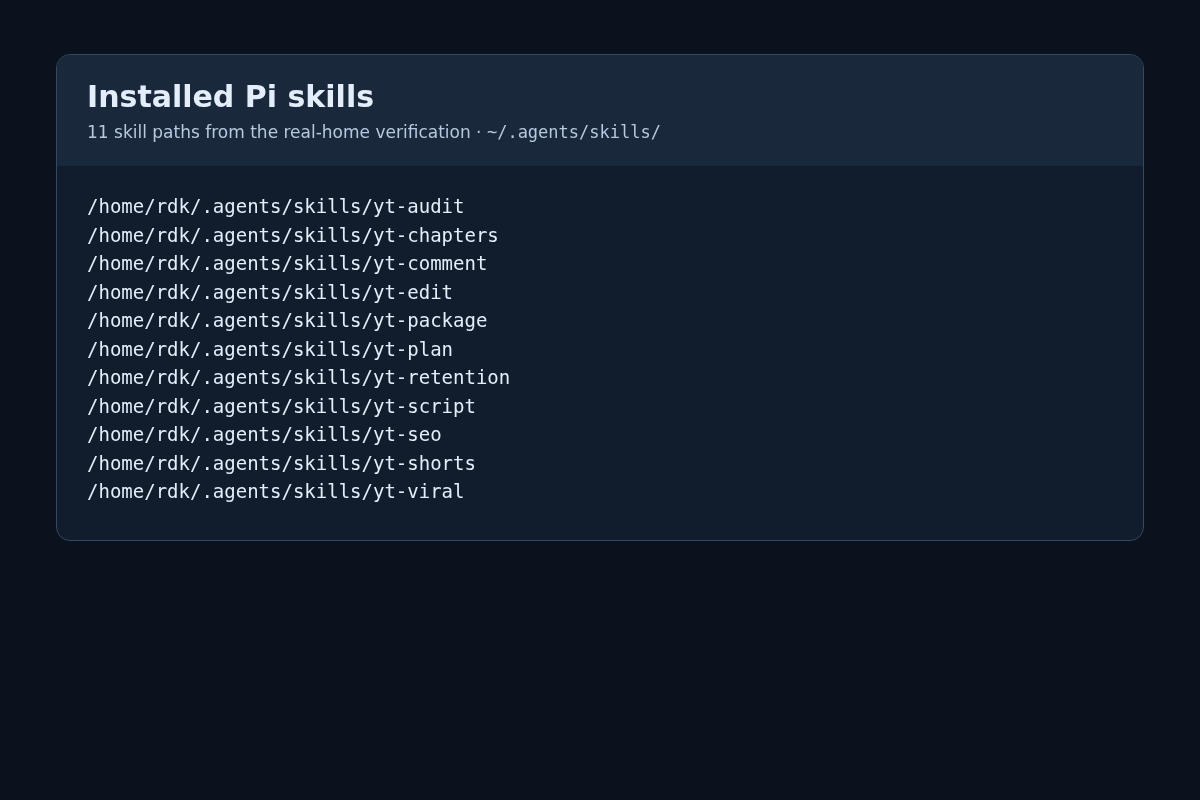
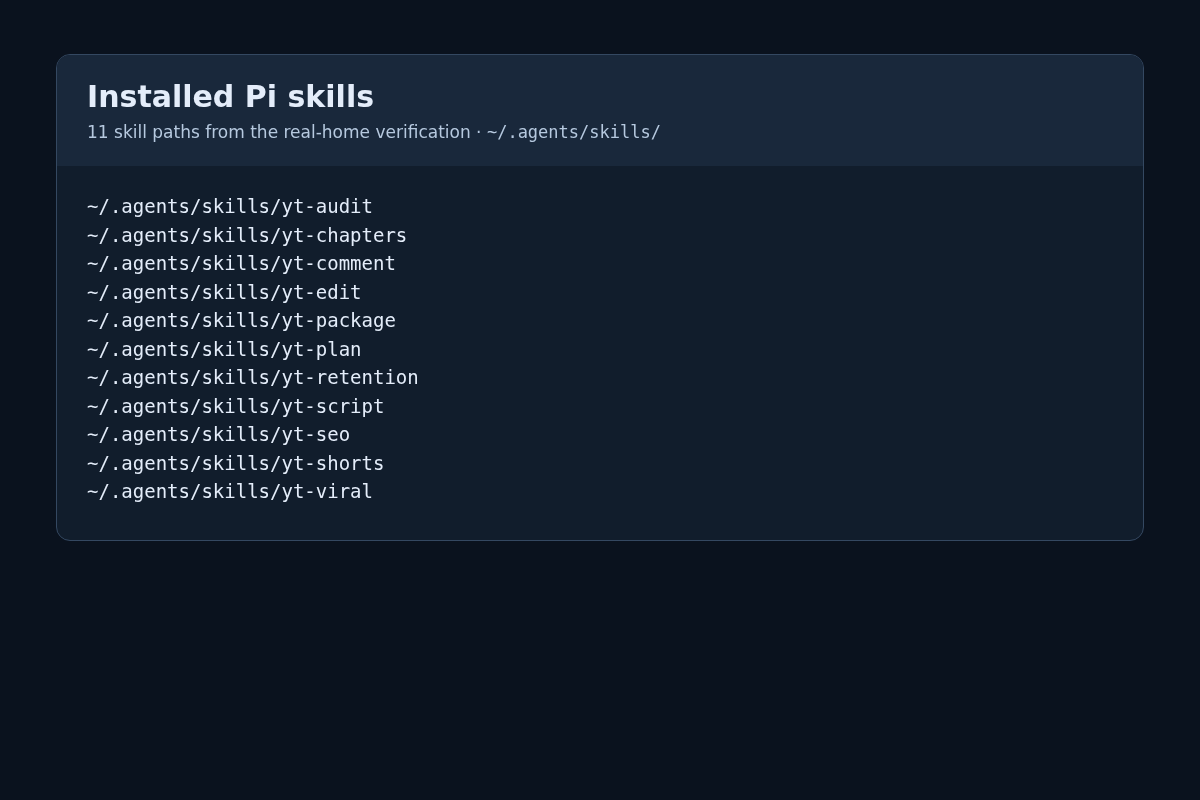
chore: scrub local paths from docs, untrack odd/, add CI workflow
Refs #1

Changed region(s): [[0.0617, 0.25, 0.4317, 0.625]]

diff --git a/docs/assets/src/skills.htm b/docs/assets/src/skills.htm
@@ -5,16 +5,16 @@
 <link rel="stylesheet" href="terminal.css">
 <main>
   <header><h1>Installed Pi skills</h1><p>11 skill paths from the real-home verification · <code>~/.agents/skills/</code></p></header>
-  <pre>/home/rdk/.agents/skills/yt-audit
-/home/rdk/.agents/skills/yt-chapters
-/home/rdk/.agents/skills/yt-comment
-/home/rdk/.agents/skills/yt-edit
-/home/rdk/.agents/skills/yt-package
-/home/rdk/.agents/skills/yt-plan
-/home/rdk/.agents/skills/yt-retention
-/home/rdk/.agents/skills/yt-script
-/home/rdk/.agents/skills/yt-seo
-/home/rdk/.agents/skills/yt-shorts
-/home/rdk/.agents/skills/yt-viral</pre>
+  <pre>~/.agents/skills/yt-audit
+~/.agents/skills/yt-chapters
+~/.agents/skills/yt-comment
+~/.agents/skills/yt-edit
+~/.agents/skills/yt-package
+~/.agents/skills/yt-plan
+~/.agents/skills/yt-retention
+~/.agents/skills/yt-script
+~/.agents/skills/yt-seo
+~/.agents/skills/yt-shorts
+~/.agents/skills/yt-viral</pre>
 </main>
 </html>

diff --git a/docs/methodology.md b/docs/methodology.md
@@ -86,5 +86,5 @@ flatpak run --filesystem="$PWD/docs/assets" com.google.Chrome \
 The README cover is an illustration of the recorded drafting demo. To render it at 1600 × 800 from [`assets/src/cover.htm`](assets/src/cover.htm), run from the checkout:
 
 ```bash
-flatpak run --filesystem="$PWD/docs/assets" com.google.Chrome --headless --disable-gpu --user-data-dir=/tmp/ay-chrome-cover --screenshot="$PWD/docs/assets/cover.png" --window-size=1600,800 "file://$PWD/docs/assets/src/cover.htm"
+flatpak run --filesystem="$PWD/docs/assets" com.google.Chrome --headless --disable-gpu --user-data-dir="$(mktemp -d)" --screenshot="$PWD/docs/assets/cover.png" --window-size=1600,800 "file://$PWD/docs/assets/src/cover.htm"
 ```
